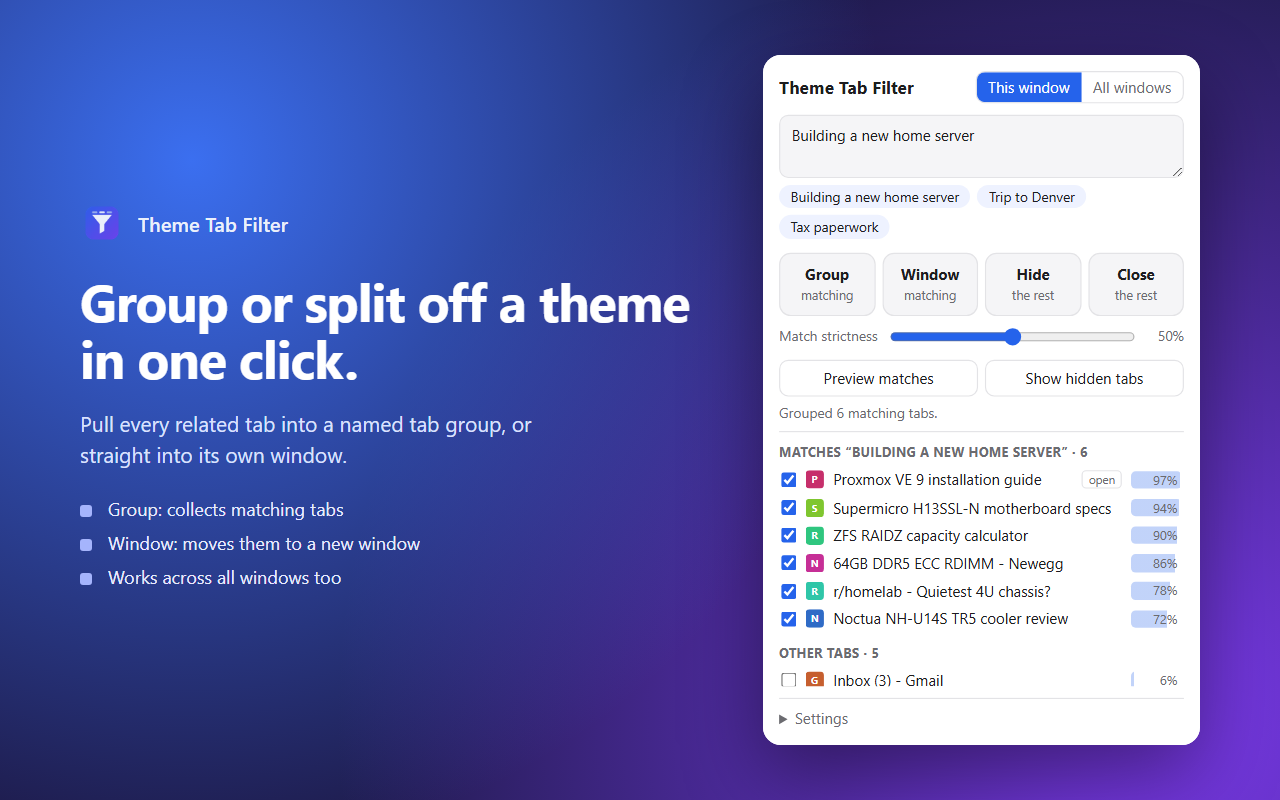
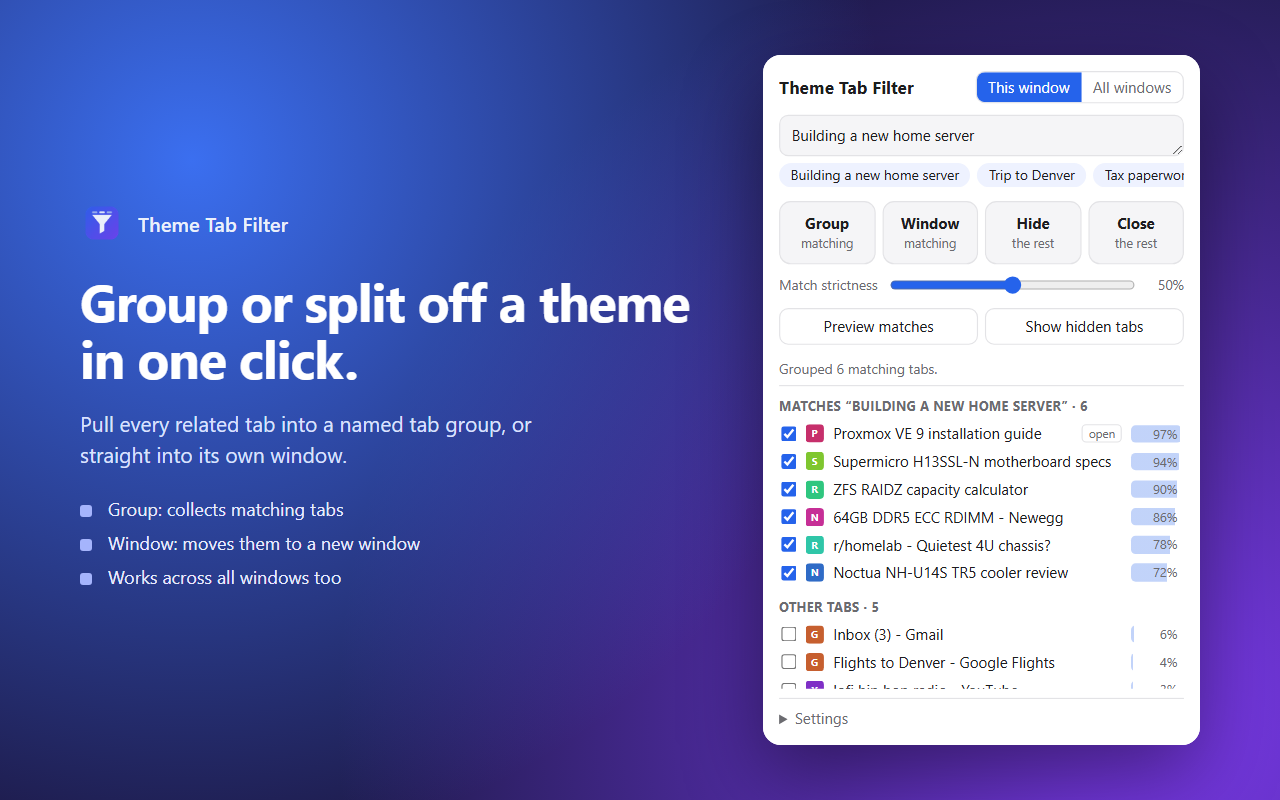
Give the preview list the space: compact header, floating settings
Theme box is one line, recent themes scroll on one row, the empty status line
collapses, and Settings opens as a panel over the list instead of shrinking it.
Settings closes itself once a key is saved.

Changed region(s): [[0.5938, 0.4062, 0.9375, 0.875], [0.5938, 0.2188, 0.9375, 0.375], [0.9062, 0.8438, 0.9375, 0.875]]

diff --git a/popup.html b/popup.html
@@ -27,9 +27,9 @@
 
   textarea { width: 100%; resize: vertical; max-height: 120px; flex: none; font: inherit; padding: 8px 10px; border: 1px solid var(--line);
     border-radius: 8px; background: var(--card); color: var(--fg); }
-  .chips { display: flex; flex-wrap: wrap; gap: 6px; margin-top: 6px; }
+  .chips { display: flex; gap: 6px; margin-top: 6px; overflow-x: auto; scrollbar-width: none; }
   .chips:empty { display: none; }
-  .chips button { border: 0; background: var(--chip); border-radius: 999px; padding: 2px 10px; font-size: 12px;
+  .chips button { flex: none; border: 0; background: var(--chip); border-radius: 999px; padding: 2px 10px; font-size: 12px;
     max-width: 170px; overflow: hidden; text-overflow: ellipsis; white-space: nowrap; }
 
   .actions { display: grid; grid-template-columns: repeat(4, 1fr); gap: 6px; margin: 12px 0 8px; }
@@ -46,7 +46,8 @@
   .strict input { flex: 1; accent-color: var(--accent); }
   .strict output { width: 32px; text-align: right; }
 
-  #status { min-height: 18px; margin: 6px 0; font-size: 12px; color: var(--muted); }
+  #status { margin: 6px 0; font-size: 12px; color: var(--muted); }
+  #status:empty { display: none; }
   #status.error { color: var(--danger); }
   #status.warn { color: var(--warn); }
 
@@ -64,11 +65,13 @@
     background: linear-gradient(to right, color-mix(in srgb, var(--accent) 28%, transparent) calc(var(--p) * 100%), transparent 0); }
   .empty { color: var(--muted); text-align: center; padding: 18px 8px; margin: 0; }
 
-  .toolbar { display: flex; gap: 6px; margin-top: 10px; }
+  .toolbar { display: flex; gap: 6px; margin: 10px 0 6px; }
   .toolbar button { flex: 1; padding: 6px; border: 1px solid var(--line); border-radius: 8px; background: none; }
   .toolbar button:hover { border-color: var(--accent); }
 
-  details { margin-top: 10px; border-top: 1px solid var(--line); padding-top: 8px; }
+  details { position: relative; margin-top: 8px; border-top: 1px solid var(--line); padding-top: 8px; }
+  .panel { position: absolute; left: 0; right: 0; bottom: 100%; margin-bottom: 6px; padding: 4px 12px 12px; background: var(--bg);
+    border: 1px solid var(--line); border-radius: 10px; box-shadow: 0 8px 24px rgba(0,0,0,.25); }
   summary { cursor: pointer; color: var(--muted); }
   details label { display: block; margin: 8px 0 3px; font-weight: 600; }
   details input { width: 100%; padding: 6px 8px; border: 1px solid var(--line); border-radius: 8px; background: var(--card); color: var(--fg); font: inherit; }
@@ -86,7 +89,7 @@
   </div>
 </header>
 
-<textarea id="topic" rows="2" aria-label="Theme" placeholder="Theme, e.g. building a new server"></textarea>
+<textarea id="topic" rows="1" aria-label="Theme" placeholder="Theme, e.g. building a new server"></textarea>
 <div class="chips" id="recent" aria-label="Recent themes"></div>
 
 <div class="actions">
@@ -114,10 +117,12 @@
 
 <details id="settings">
   <summary>Settings</summary>
+  <div class="panel">
   <label for="key">Jev API key</label>
   <input id="key" type="password" autocomplete="off" placeholder="TypeSafe API key">
   <p>Stored only in this browser. Tab titles and URLs are sent to api.typesafe.ai.</p>
   <button id="clearCache">Clear score cache</button>
+  </div>
 </details>
 
 <script type="module" src="popup.js"></script>

diff --git a/popup.js b/popup.js
@@ -22,7 +22,10 @@ $('topic').focus();
 
 // ---------- events ----------
 
-$('key').addEventListener('change', () => save({ key: $('key').value.trim() }));
+$('key').addEventListener('change', () => {
+  save({ key: $('key').value.trim() });
+  if (cfg.key) $('settings').open = false;
+});
 $('topic').addEventListener('input', () => { disarm(); save({ topic: $('topic').value }); });
 $('topic').addEventListener('keydown', (e) => {
   if (e.key === 'Enter' && !e.shiftKey) { e.preventDefault(); guard(scan); }
